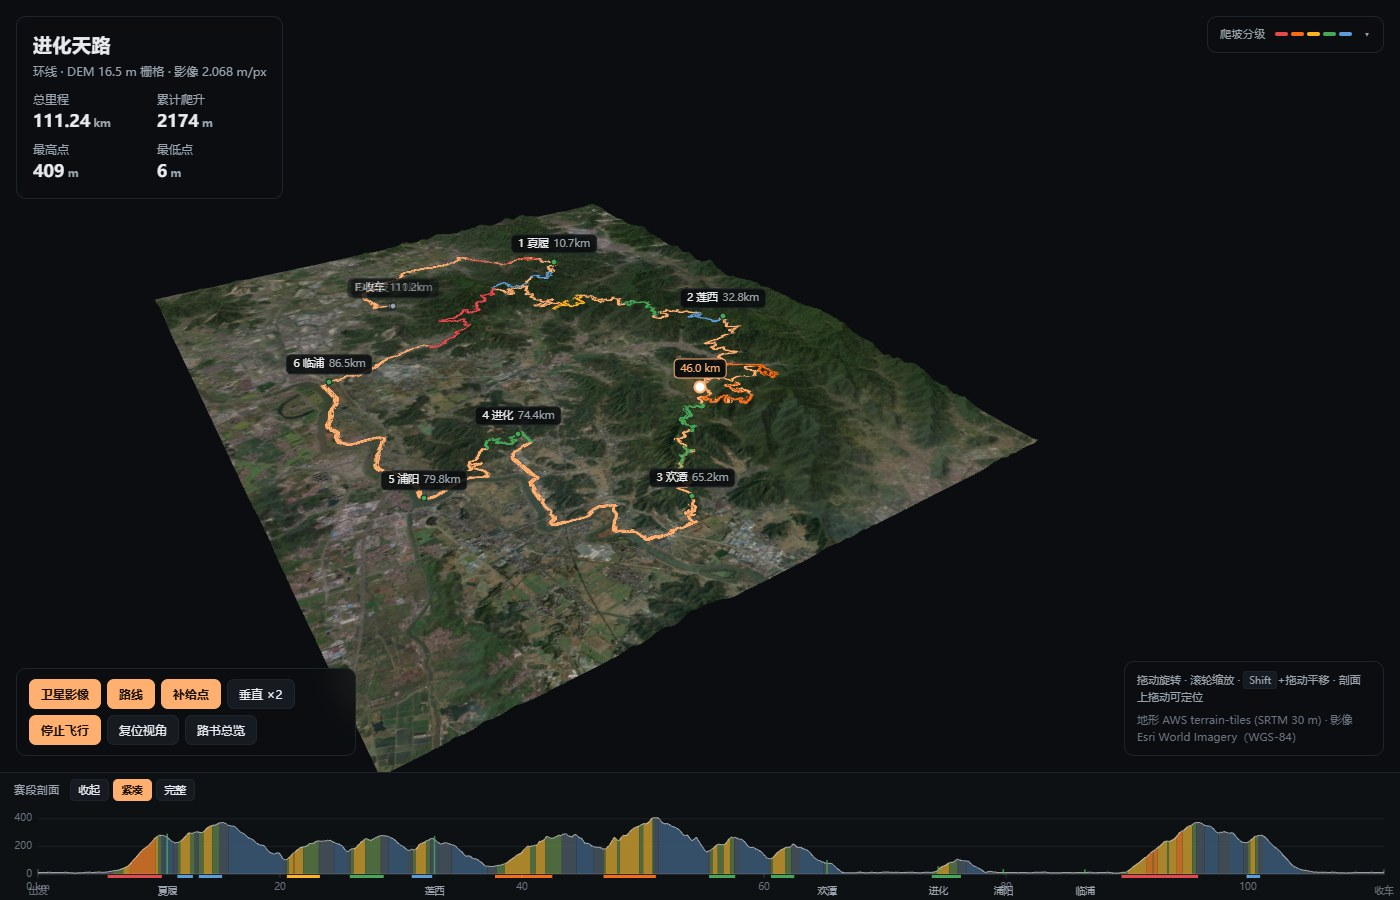
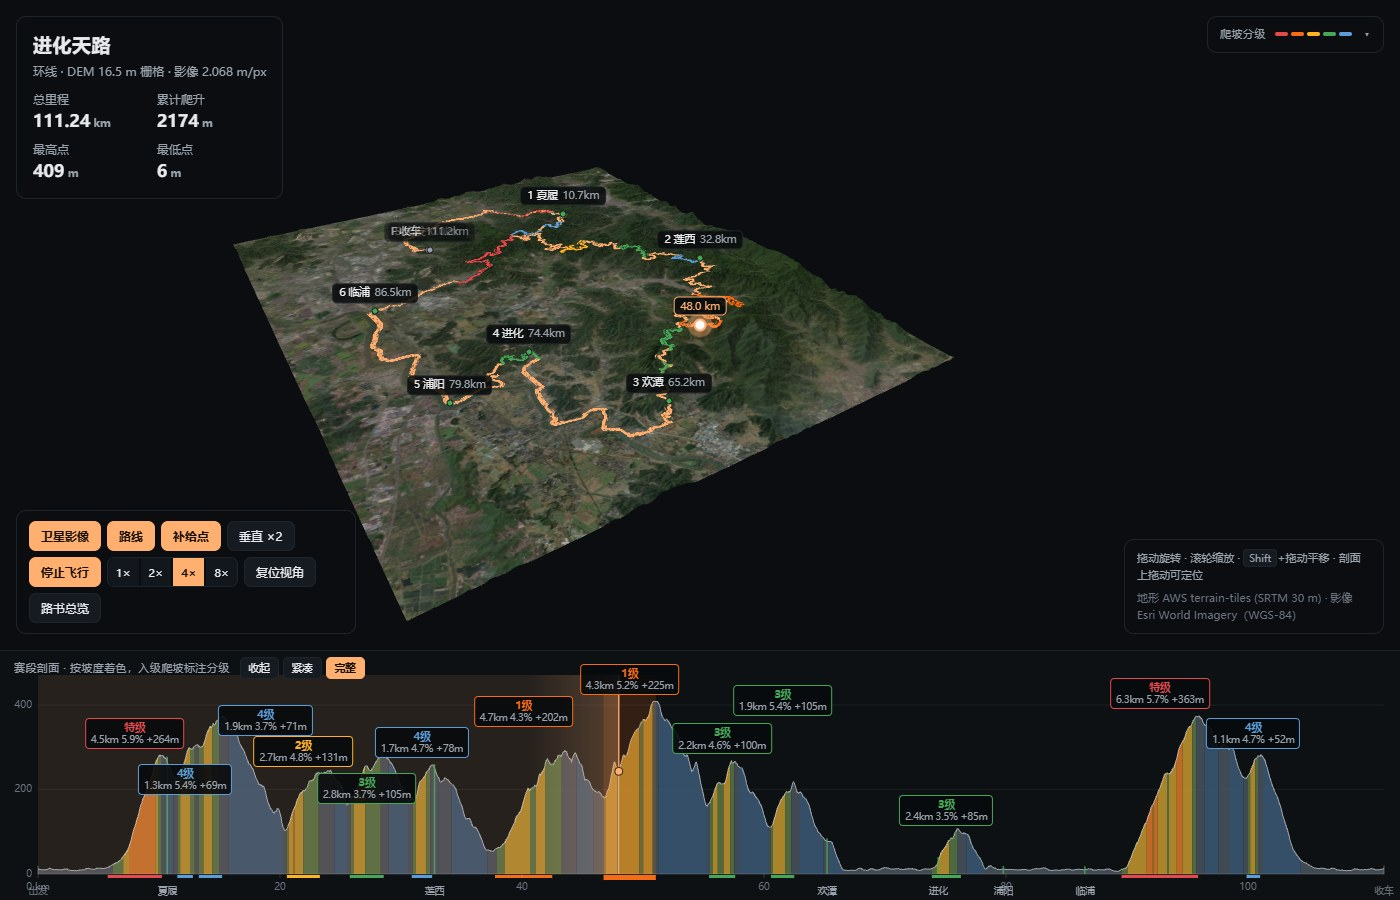
飞行加倍速，剖面与飞行联动
- 倍速 1x/2x/4x/8x（默认 4x）。110 km/h 跑完 111 km 要 61 秒，太慢。
  读数里同时显示倍速和剩余秒数。
- 剖面游标在飞行时缺失：做快照优化时把游标移出基础图层，而完整重绘
  （首次载入、改尺寸、深链）不走 drawCursorOnly，于是标记在图上、
  剖面上没游标，两个视图看着毫不相干。两条路径现在共用 paintCursor()。
- 已走过的里程加淡色 + 游标处渐变锋面，当前所在的入级爬坡整段竖条高亮，
  基线条加粗——回答「现在在爬哪个坡」，不只是「游标在哪」。
- 标注天花板从 26 提到 38 并把 pfbar 整条宽度计入碰撞：顶点靠近图顶的
  爬坡会被夹到标题栏和尺寸按钮上。

diff --git a/site/terrain.html b/site/terrain.html
@@ -117,6 +117,16 @@
   #pfread{margin-left:auto;font-size:11px;color:var(--dim);
     font-variant-numeric:tabular-nums;text-align:right;pointer-events:none}
   #pfread b{color:var(--ink);font-size:13px}
+  /* Speed control sits with the flight button. Segmented rather than a slider:
+     four presets are easier to hit than a drag target, and the chosen rate
+     needs to stay readable at a glance. */
+  #speed{display:inline-flex;gap:2px;border:1px solid var(--line);
+    border-radius:7px;overflow:hidden}
+  #speed button{border:none;border-radius:0;padding:6px 8px;font-size:11px;
+    font-variant-numeric:tabular-nums;background:#12171d}
+  #speed button:hover{background:#1d242e}
+  #speed button.on{background:var(--warm);color:#1a1005;font-weight:600}
+
   #pfsize{display:flex;gap:4px}
   #pfsize button{padding:3px 8px;font-size:10.5px;border-radius:5px}
   #pfsize button.on{background:var(--warm);color:#1a1005;border-color:var(--warm)}
@@ -180,6 +190,12 @@
     <button id="b-mark" class="on">补给点</button>
     <button id="b-exag">垂直 ×2</button>
     <button id="b-fly">沿路线飞行</button>
+    <span id="speed" title="飞行倍速">
+      <button data-mult="1">1×</button>
+      <button data-mult="2">2×</button>
+      <button data-mult="4" class="on">4×</button>
+      <button data-mult="8">8×</button>
+    </span>
     <button id="b-reset">复位视角</button>
     <a href="roadbook.html" style="text-decoration:none"><button>路书总览</button></a>
   </div>
@@ -416,7 +432,10 @@ const state = {
   home: null,
   focusKm: null,                      // profile cursor, null = none
   rider: null,                        // km of the moving marker, null = hidden
-  fly: {on: false, km: 0, kmh: 110}   // kmh is playback speed, not riding speed
+  // kmh is playback speed, not riding speed. 110 km/h covers a 111 km route
+  // in about a minute, which turned out to be too slow to watch; `mult` is
+  // the user-facing speed control and persists across flights.
+  fly: {on: false, km: 0, kmh: 110, mult: 4}
 };
 
 /* ---------- load ---------- */
@@ -602,6 +621,11 @@ const state = {
       state.rider = state.fly.km;
       $('#b-fly').classList.add('on');
       $('#b-fly').textContent = '停止飞行';
+    }
+    if (hash.has('mult')) {
+      state.fly.mult = +hash.get('mult');
+      for (const b of document.querySelectorAll('#speed button'))
+        b.classList.toggle('on', +b.dataset.mult === state.fly.mult);
     }
     // profile=collapsed|compact|full , legend=open
     const wantPf = hash.get('profile');
@@ -819,11 +843,23 @@ const state = {
       }
       p2.stroke();
 
-      // categorised climbs: a coloured bar on the baseline, matching the 3D
+      // categorised climbs: a coloured bar on the baseline, matching the 3D.
+      // The one the rider is inside gets a taller bar, so the chart says which
+      // climb is happening rather than only where the cursor is.
       for (const c of (sc.climbs || [])) {
         const a = X(c.from_km), b = X(c.to_km);
+        const here = state.focusKm != null
+                     && state.focusKm >= c.from_km && state.focusKm <= c.to_km;
         p2.fillStyle = c.colour;
-        p2.fillRect(a, y1 + 1, Math.max(b - a, 1.5), 3);
+        p2.fillRect(a, y1 + 1, Math.max(b - a, 1.5), here ? 5 : 3);
+        if (here) {
+          // A faint column over the active climb's span.
+          p2.save();
+          p2.globalAlpha = 0.16;
+          p2.fillStyle = c.colour;
+          p2.fillRect(a, y0 - 6, Math.max(b - a, 1.5), y1 - y0 + 6);
+          p2.restore();
+        }
       }
 
       // km axis
@@ -860,6 +896,42 @@ const state = {
       pfMap = {X, Y, y0, y1, x0, x1};
       try { pfSnap = p2.getImageData(0, 0, pf.width, pf.height); }
       catch { pfSnap = null; }
+      // The snapshot above is deliberately cursor-free, but the cursor still
+      // has to appear on this frame. Without this a full redraw -- which is
+      // what a fresh load or a resize does -- left the chart with no cursor
+      // even though the rider was placed, so the two views looked unrelated.
+      if (state.focusKm != null) paintCursor();
+    }
+
+    // Cursor plus a "progress" wash over the distance already covered: colour
+    // banding alone showed the gradient but not how far along the flight was.
+    function paintCursor(){
+      if (!pfMap || state.focusKm == null) return;
+      const {X, Y, y0, y1, x0} = pfMap;
+      const x = X(state.focusKm);
+      if (state.rider != null && x > x0) {
+        p2.save();
+        p2.globalCompositeOperation = 'lighten';
+        p2.fillStyle = 'rgba(255,176,113,.10)';
+        p2.fillRect(x0, y0 - 6, x - x0, y1 - y0 + 6);
+        p2.restore();
+        // A bright edge at the cursor reads as a wavefront; the wash alone was
+        // too subtle to spot at a glance.
+        const grd = p2.createLinearGradient(Math.max(x0, x - 90), 0, x, 0);
+        grd.addColorStop(0, 'rgba(255,176,113,0)');
+        grd.addColorStop(1, 'rgba(255,176,113,.22)');
+        p2.fillStyle = grd;
+        p2.fillRect(Math.max(x0, x - 90), y0 - 6, Math.min(90, x - x0), y1 - y0 + 6);
+      }
+      const e = P.ele[idxKm(state.focusKm)];
+      p2.strokeStyle = 'rgba(255,176,113,.95)';
+      p2.lineWidth = 1.4;
+      p2.beginPath(); p2.moveTo(x, y0 - 6); p2.lineTo(x, y1); p2.stroke();
+      p2.lineWidth = 1;
+      p2.fillStyle = '#ffb071';
+      p2.beginPath(); p2.arc(x, Y(e), 4, 0, 7); p2.fill();
+      p2.strokeStyle = 'rgba(8,10,12,.85)';
+      p2.beginPath(); p2.arc(x, Y(e), 4, 0, 7); p2.stroke();
     }
 
     // Repaint the saved chart, then just the cursor on top.
@@ -870,14 +942,7 @@ const state = {
       p2.setTransform(1, 0, 0, 1, 0, 0);
       p2.putImageData(pfSnap, 0, 0);
       p2.setTransform(dpr, 0, 0, dpr, 0, 0);
-      if (state.focusKm == null) return;
-      const {X, Y, y0, y1} = pfMap;
-      const x = X(state.focusKm), e = P.ele[idxKm(state.focusKm)];
-      p2.strokeStyle = 'rgba(255,176,113,.95)';
-      p2.lineWidth = 1;
-      p2.beginPath(); p2.moveTo(x, y0 - 6); p2.lineTo(x, y1); p2.stroke();
-      p2.fillStyle = '#ffb071';
-      p2.beginPath(); p2.arc(x, Y(e), 3.6, 0, 7); p2.fill();
+      paintCursor();
     }
 
     const idxKm = km => {
@@ -897,8 +962,12 @@ const state = {
         // the ceiling gets clamped, and two different rows then clamp to the same
         // y and overlap anyway. So track placed rectangles and test against
         // them, including the strip's own title.
-        const CEIL = 26, BOXH = 28;
-        const placed = [[0, 250, 0, 22]];     // #pftitle
+        // The ceiling has to clear the title bar (34 px) plus the box's own
+        // height, or a climb that tops out near the chart's upper edge gets
+        // clamped onto the 赛段剖面 / size buttons. Reserve the bar's full
+        // width too: the size buttons sit further right than the title.
+        const CEIL = 38, BOXH = 28;
+        const placed = [[0, 330, 0, 34]];     // #pfbar: title + size buttons
         const hits = (a, b, t, bt) => placed.some(
           ([pa, pb, pt, pbt]) => a < pb && b > pa && t < pbt && bt > pt);
         for (const el of pfover.children) {
@@ -1060,10 +1129,17 @@ const state = {
       if (km == null) { $('#pfread').innerHTML = ''; return; }
       const i = idxKm(km), g = P.grade[i];
       const c = (sc.climbs || []).find(c => km >= c.from_km && km <= c.to_km);
+      // While flying, show the rate and how long the rest of the route will
+      // take at it -- the number that answers "why is this taking so long".
+      const fly = state.fly.on
+        ? ` · <span style="color:var(--warm)">${state.fly.mult}× `
+          + `${Math.round((r.total_km - km) / (state.fly.kmh * state.fly.mult) * 3600)}s</span>`
+        : '';
       $('#pfread').innerHTML =
         `<b>${km.toFixed(1)}</b> km · <b>${Math.round(P.ele[i])}</b> m · `
         + `坡度 <b>${g > 0 ? '+' : ''}${g.toFixed(1)}%</b>`
-        + (c ? ` · <span style="color:${c.colour}">${c.cat}爬坡</span>` : '');
+        + (c ? ` · <span style="color:${c.colour}">${c.cat}爬坡</span>` : '')
+        + fly;
     };
     let pfDrag = false;
     const pfMove = e => {
@@ -1095,7 +1171,7 @@ const state = {
       if (!state.fly.on) return;
       const dt = flyLast ? Math.min((ts - flyLast) / 1000, 0.1) : 0;
       flyLast = ts;
-      state.fly.km += state.fly.kmh / 3600 * dt;
+      state.fly.km += state.fly.kmh * state.fly.mult / 3600 * dt;
       if (state.fly.km >= r.total_km) state.fly.km = 0;   // loop, it is a loop
       state.focusKm = state.fly.km;
       state.rider = state.fly.km;
@@ -1135,6 +1211,14 @@ const state = {
     };
     for (const b of document.querySelectorAll('#pfsize button'))
       b.onclick = () => setProfileSize(b.dataset.size);
+    for (const b of document.querySelectorAll('#speed button'))
+      b.onclick = () => {
+        state.fly.mult = +b.dataset.mult;
+        for (const o of document.querySelectorAll('#speed button'))
+          o.classList.toggle('on', o === b);
+        readout(state.focusKm);
+      };
+
     const tog = (id, key) => $(id).onclick = () => {
       state[key] = !state[key];
       $(id).classList.toggle('on', state[key]); draw();
